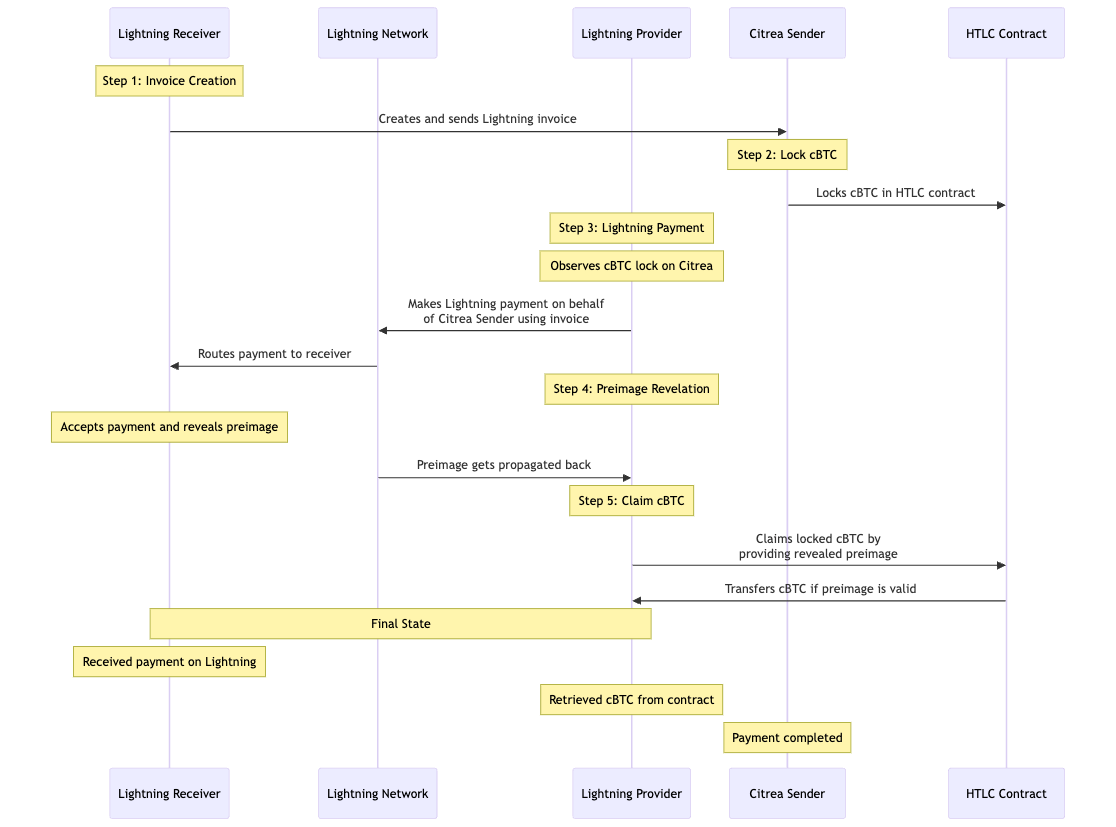
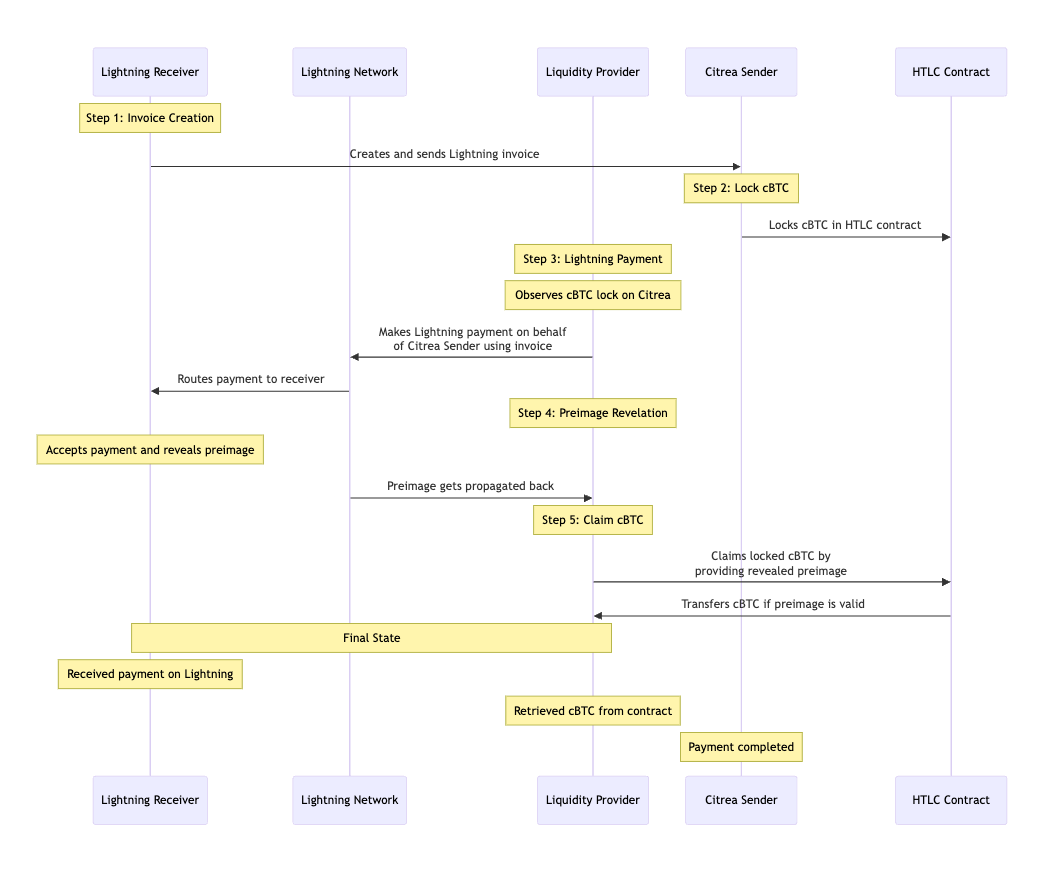
Fix LP

diff --git a/future-research/lightning-integration.md b/future-research/lightning-integration.md
@@ -2,7 +2,7 @@
 
 Trustless atomic swaps between Citrea and Lightning Network are being actively implemented at the moment through third party applications, such as [Citrex](https://citrex.xyz). This will allow users of Citrea to pay Lightning invoices directly from the Citrea network or on- and off-ramp from Citrea without needing to leverage the Bitcoin base layer.
 
-More technically, for both ways of the swap the smart contract on Citrea simply emulates the Lightning's HTLC. An LP (Lightning Liquidity Provider) behaves as a proxy on Lightning and it is responsible for all cross-network interactions - with liquidity maintained on both sides.
+More technically, for both ways of the swap the smart contract on Citrea simply emulates the Lightning's HTLC. An LP (Liquidity Provider) behaves as a proxy on Lightning and it is responsible for all cross-network interactions - with liquidity maintained on both sides.
 
 ![Lightning Atomic Swap Diagram](/.gitbook/assets/lightning_atomic_swap.png)
 
